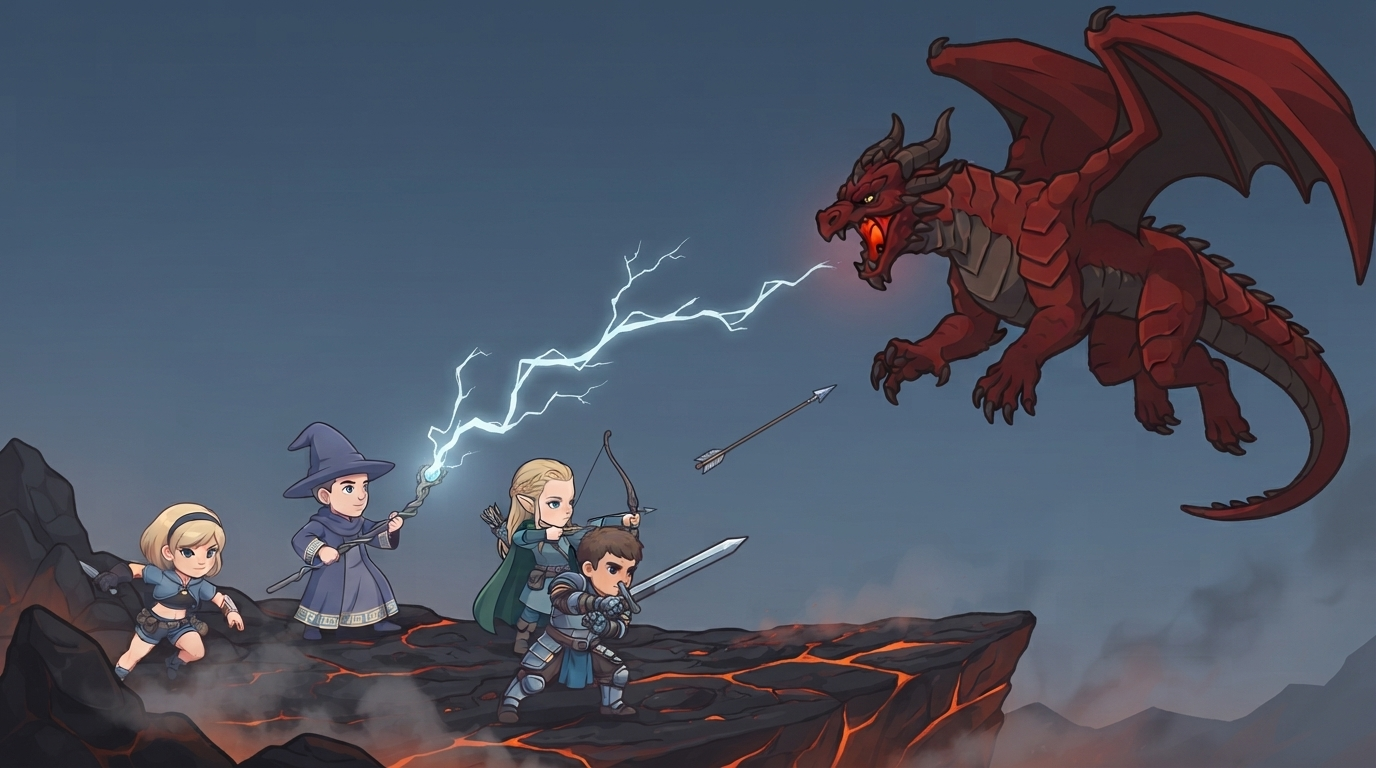
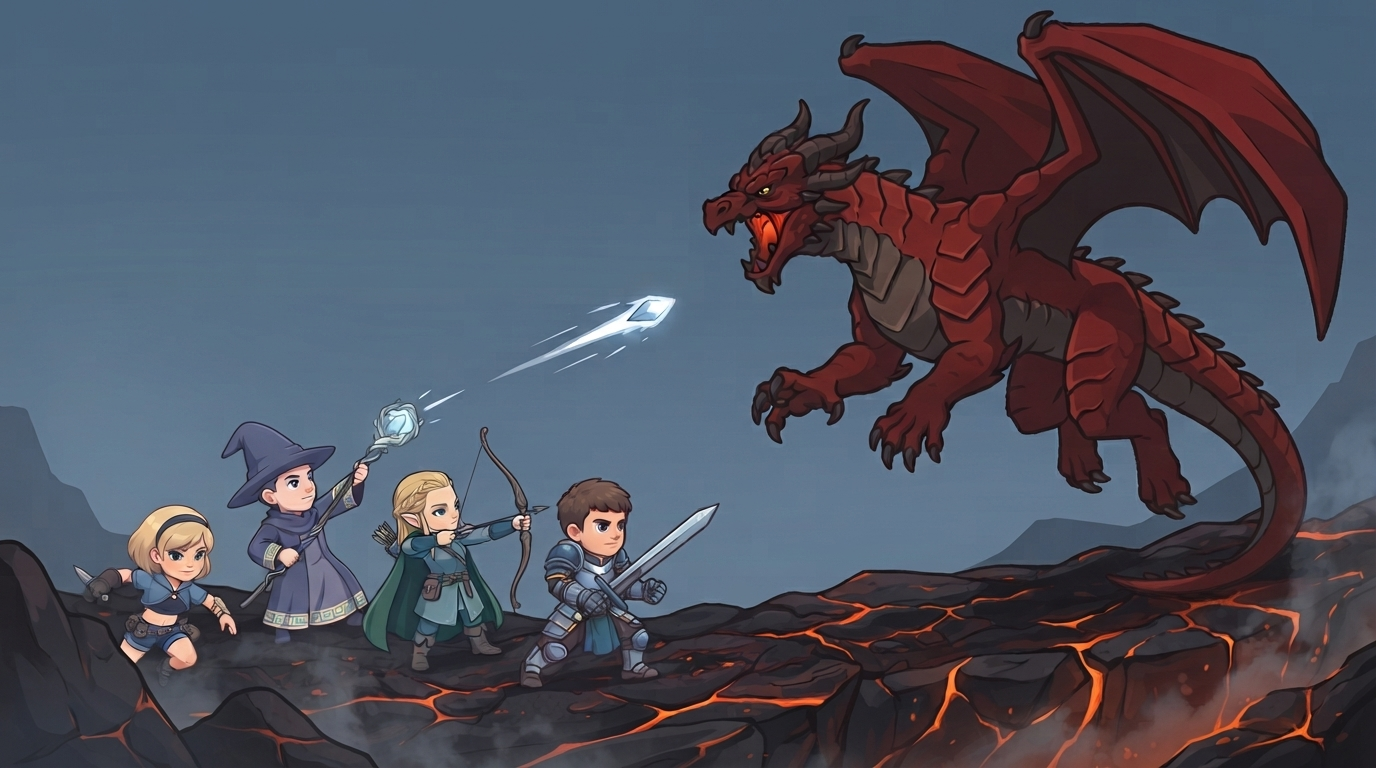
feat(art): キービジュアルの中を描き直す
飛んでいる矢を消し、エルフは弦につがえたまま竜を狙う形にした。腕は両方
ともファイターの前に出させて、隠れた側の行き先が解けずに崩れるのを防ぐ。
ウィザードの攻撃は稲妻ではなく魔弾（magic_bolt）で、盤の効果と揃えた。

左上の空を「solid block」と書いていたせいで、区画がそのまま明るい矩形と
して描かれていた。区画は指示であって描く対象ではない、と書き直した。

ロゴの幅は 40% から 36% に詰めた。魔弾が前より低く左に来たぶん、(65, 50)
から余白を確保して置ける最大幅が縮んだため。位置は据え置き。

diff --git a/godot/tools/keyvisual/build_keyvisual.py b/godot/tools/keyvisual/build_keyvisual.py
@@ -35,7 +35,7 @@ SPECS = {
 # 元絵は左40%・上半分を空けて生成してある（keyvisual_m_prompt.txt）＝そこに置く。
 M_SPEC = dict(
     src="assets/promo-src/keyvisual/keyvisual_m_01_raw.jpg",
-    logo_w=0.40,
+    logo_w=0.36,
     logo_xy=(65, 50),
 )
 
